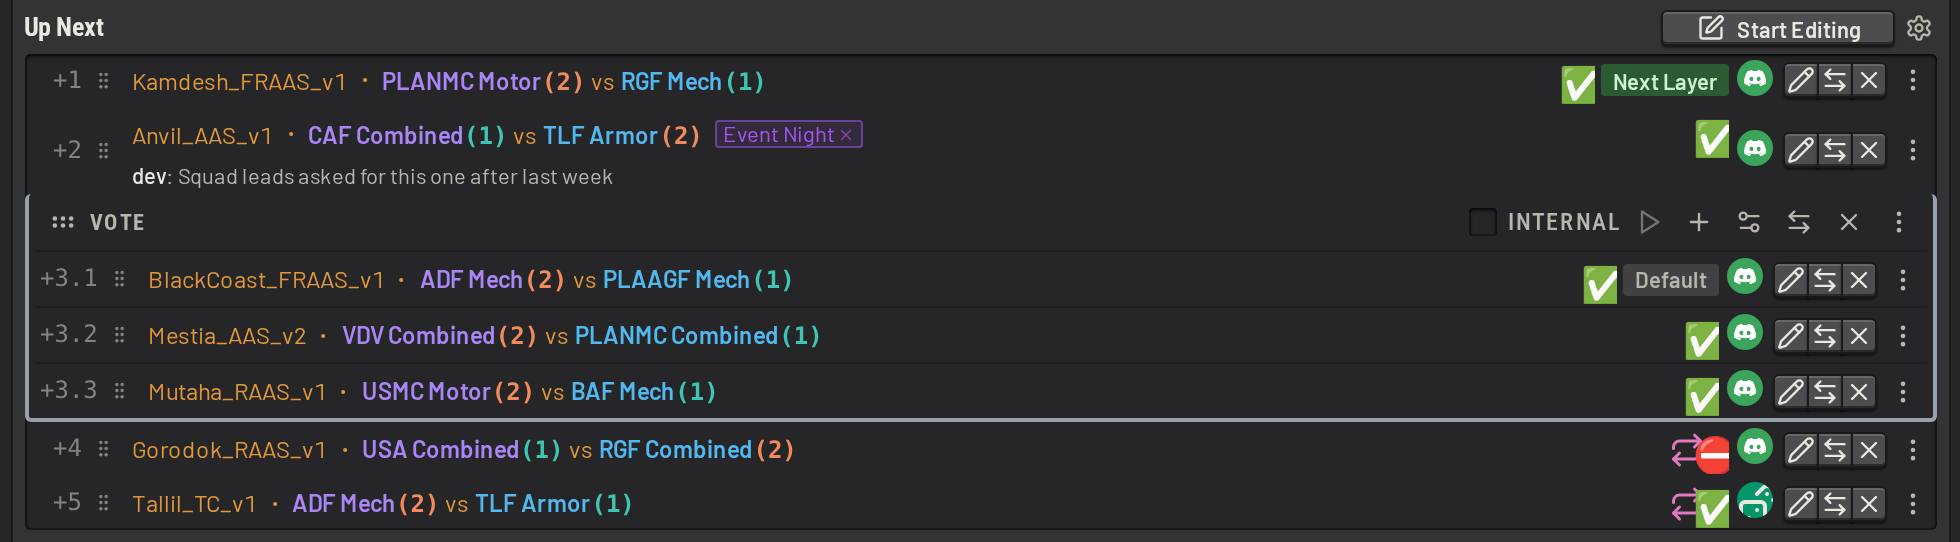
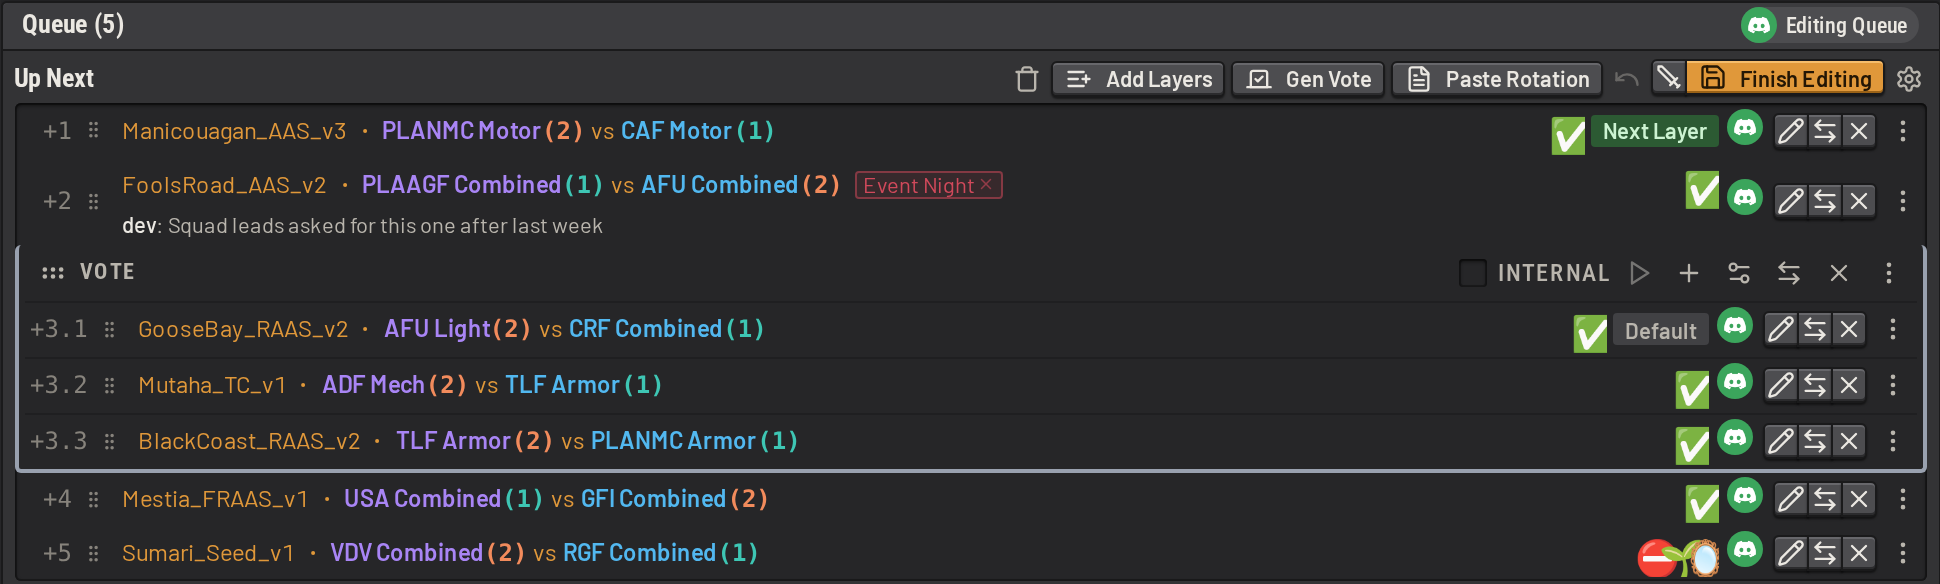
some docs improvements(clanker free)

Changed region(s): [[0.0, 0.0, 1.0, 1.0], [0.0, 0.9151, 0.4021, 0.9742], [0.0309, 0.2657, 0.0619, 0.2952]]

diff --git a/docs/features/layer_selection.md b/docs/features/layer_selection.md
@@ -1,7 +1,7 @@
 # Layer selection
 
 SLM manages the layer rotation of one or more Squad servers. Admins work from a web app that signs in with Discord, and
-from in-game commands. To install SLM, see [installing.md](../installing.md).
+from in-game commands. To install SLM, see [installing.md](../installing.md). If you're here to learn how to use SLM, try the in-app tutorials instead.
 
 ## The layer queue
 
@@ -12,17 +12,29 @@ after. When the queue runs out, SLM generates a layer from your layer pool, the 
 marks the generated layer with a dice icon. [Filters and the layer pool](#filters-and-the-layer-pool) describes the pool
 below.
 
-Several admins can edit the queue at once. Click _Start Editing_ to announce an edit to the other admins. The panel
-lists the admins online and what each one is editing. Queue items can hold colour-coded tags and freeform notes, for
-additional context.
+Click _Start Editing_ to change the queue. Several admins can edit the queue at once, and _Start Editing_ announces the
+edit to the other admins. Layers can be added one at a time, as a generated vote, or pasted in as a whole rotation.
+Queue items can hold colour-coded tags and freeform notes, for additional context.
 
-![the layer queue, with a tagged and noted layer, a vote, an out-of-pool layer and a generated layer](../images/features/layer_queue.png)
+![the layer queue while editing, with a tagged and noted layer, a vote and an out-of-pool layer](../images/features/layer_queue.png)
+
+## The layer selection dialog
+
+Use the layer selection dialog to find layers to add to the queue. Narrow the full layer catalog with filters, named
+rules that pick out a set of layers, such as "no mechanized units on hilly maps". [Filters and the layer
+pool](#filters-and-the-layer-pool) describes filters below. Narrow the catalog further with constraints on map,
+gamemode, factions, units and vehicles, or shuffle the list, weighted toward preferable layers. Each layer is marked
+when it falls outside your pool or would break a [repeat rule](#repeat-rules). Add the selected layers as separate queue
+items or as one vote.
+
+![the Add Layers dialog, with three RAAS layers selected](../images/features/add_layers.png)
 
 ## Filters and the layer pool
 
 The base game offers about 730,000 layers, counting every map, gamemode, faction and unit combination, and this number
 can balloon with additional mods. A _filter_ is a named expression that picks a subset of them out. Filters can be
-composed by referencing each other to create more complex filters. Edit a filter in the builder, or as text in YAML.
+composed by referencing each other to create more complex filters. Edit a filter in the builder, a visual editor, or as
+text in YAML.
 
 ![a filter in the builder](../images/configuring/filter_edit.png)
 
@@ -38,17 +50,10 @@ on the same side within 3. Narrow a rule to named values, such as Skorpo alone o
 
 ![the default repeat rules](../images/configuring/default_repeat_rules.png)
 
-## Warnings before mistakes are played
+SLM marks each layer that breaks a repeat rule. Hover over the marker ![repeat rule icon](../images/icons/repeat.svg) to see which rule the layer breaks. The repeated value is underlined in pink, on both the marked layer and
+the earlier layer it repeats.
 
-SLM checks every layer against your pool, your repeat rules and the mods each server has installed. The layer table
-greys out layers a server cannot load, and marks repeats and out-of-pool layers wherever they appear. When an edit
-breaks a rule, SLM lists the layers the edit affects above the queue, and _Save_ becomes _Save Anyway_. If such a layer
-reaches the front of the queue, SLM warns your in-game admins before the layer is played.
-
-![a repeat warning before saving](../images/features/repeat_warning.png)
-
-If an in-game admin or another tool changes the next layer, SLM either sets the next layer back or adopts the change at
-the front of the queue, depending on a setting.
+![a repeated map, underlined on both layers, with the rule it breaks](../images/features/repeat_hover.png)
 
 ## Layer details and scores
 
@@ -62,8 +67,7 @@ Custom scoring can be built as well. See [layer_data.md](../guide/operations/lay
 
 ## Votes
 
-A vote is a queue item. SLM generates its choices from your pool. Each choice can be edited, regenerated or removed, and
-new choices can be added. Use _Gen Vote_ to make the choices differ by map, layer, gamemode, unit or size.
+It's easy to create new votes on the fly with the _Gen Vote Dialog_.
 
 ![the Generate Vote dialog](../images/features/generate_vote.png)
 
@@ -73,33 +77,26 @@ poll your admins alone through warns.
 
 ![a vote in progress](../images/features/vote_in_progress.png)
 
-Each vote's duration can be set, along with which layer details voters see, such as the map, gamemode or factions. In
-the _Votes_ section of the settings, set the defaults for both, how often SLM reminds players to vote, and how far into
-a match SLM starts a vote on its own.
+Each vote's duration can be set, along with which layer details voters see, such as the map, gamemode or factions.
 
 ## Squad's in-game voting
 
 SLM also works on a server that uses Squad's own in-game voting system. When an in-game vote starts, or SLM infers that
 voting was turned on with `AdminEnableVoting 1`, SLM stops setting the next layer, so SLM and the vote never fight over
-it. The queue panel shows that an in-game vote is deciding the next layer.
-
-Everything else in SLM keeps working.
-
-To hand the rotation back to SLM, click _Re-enable SLM Updates_. SLM then turns in-game voting off on the server.
+it. The server's dashboard will show that an in-game vote is deciding the next layer.
 
 ## Layer requests
 
 A layer request lets an admin ask for a layer with specific characteristics, without editing the queue by hand. Admins
-make one in game by naming any mix of map, gamemode, faction, unit or filter. Type `/reqlayer narva raas usa rgf` to
-request Narva RAAS with USA against RGF. When the queue runs out of deliberately queued layers, SLM generates the next
-layer from the requests. The dashboard lists each request with who made the request and whether any layer matches it,
-and admins can edit, combine or remove requests there.
+make one in game by naming any mix of map, gamemode, faction, unit or specify any layer filter. Type `/reqlayer fallu raas usa rgf` to
+request Fallujah RAAS with USA against RGF. When the queue runs out of deliberately queued layers, SLM generates the next
+layer from the requests. SLM's autogeneration logic will attempt to satisfy as many requests as possible, such that if one admin requests WPMC, and another suggests Narva, the generated layer config might be on Narva and include WPMC.
 
 ![the layer requests panel](../images/features/layer_requests.png)
 
 ## Mod support
 
-SLM's layer catalog covers vanilla Squad and three mods: SuperMod, Resurgence and Galactic Contention. Each layer's
+SLM's layer catalog currently covers vanilla Squad and three mods: SuperMod, Resurgence and Galactic Contention. Each layer's
 _Collection_ column records whether the layer is vanilla (`OWI`) or which mod it comes from, so a filter can include or
 exclude a whole mod.
 
@@ -107,7 +104,7 @@ In each server's settings, configure the mods that server has installed. A custo
 place of the built-in one, with other mods, your own scoring or extra columns. See [layer_data.md](../guide/operations/layer_data.md).
 
 A layer the catalog does not know, such as one from a mod SLM does not cover, can still be queued. In the _Add Layers_
-dialog, click the _Show Raw Input_ icon (<img src="../images/icons/text-cursor-input.svg" alt="" height="16">) and type the
+dialog, click the _Show Raw Input_ icon ![text cursor input icon](../images/icons/text-cursor-input.svg) and type the
 layer in the format `AdminSetNextLayer` takes, such as `Narva_RAAS_v1 RGF USMC`.
 
 ![the raw input in the Add Layers dialog](../images/features/raw_layer_input.png)

diff --git a/docs/features/player_management.md b/docs/features/player_management.md
@@ -47,21 +47,10 @@ choose _Add Note..._. In game, type `/note Kestrel mic spam in local`.
 
 ![the Add Note dialog](../images/features/add_note.png)
 
-### Your own BattleMetrics token
+### BattleMetrics personal access tokens
 
-SLM adds flags and notes with your organization's BattleMetrics token, so BattleMetrics records them as made by
-whoever owns that token. Save your own token to have BattleMetrics record them as yours.
-
-1. Create a personal access token on the [BattleMetrics developer page](https://www.battlemetrics.com/developers).
-   Give it the _player flags_ scopes to add and remove flags, and the _player notes_ scope to create notes.
-2. Open the user menu and choose _BattleMetrics Token_.
-3. Paste the token and click _Save_. SLM checks the token with BattleMetrics before saving it.
-4. Link your Steam account when SLM asks. In-game flag and note commands use your token only when SLM knows the Steam
-   account they come from.
-
-SLM stores the token encrypted and never shows it again. To replace the token, paste a new one. To stop using it,
-click _Remove_. If BattleMetrics rejects a saved token, SLM refuses the change and asks for a new token. The change is
-not made with the organization's token instead.
+When flags are modified/notes are made, SLM will attribute the user who made them, but by default it cannot perform actions on behalf of the user.
+However, it's possible to set up a personal access token so that SLM can act directly on your behalf.
 
 ## Permissions
 
